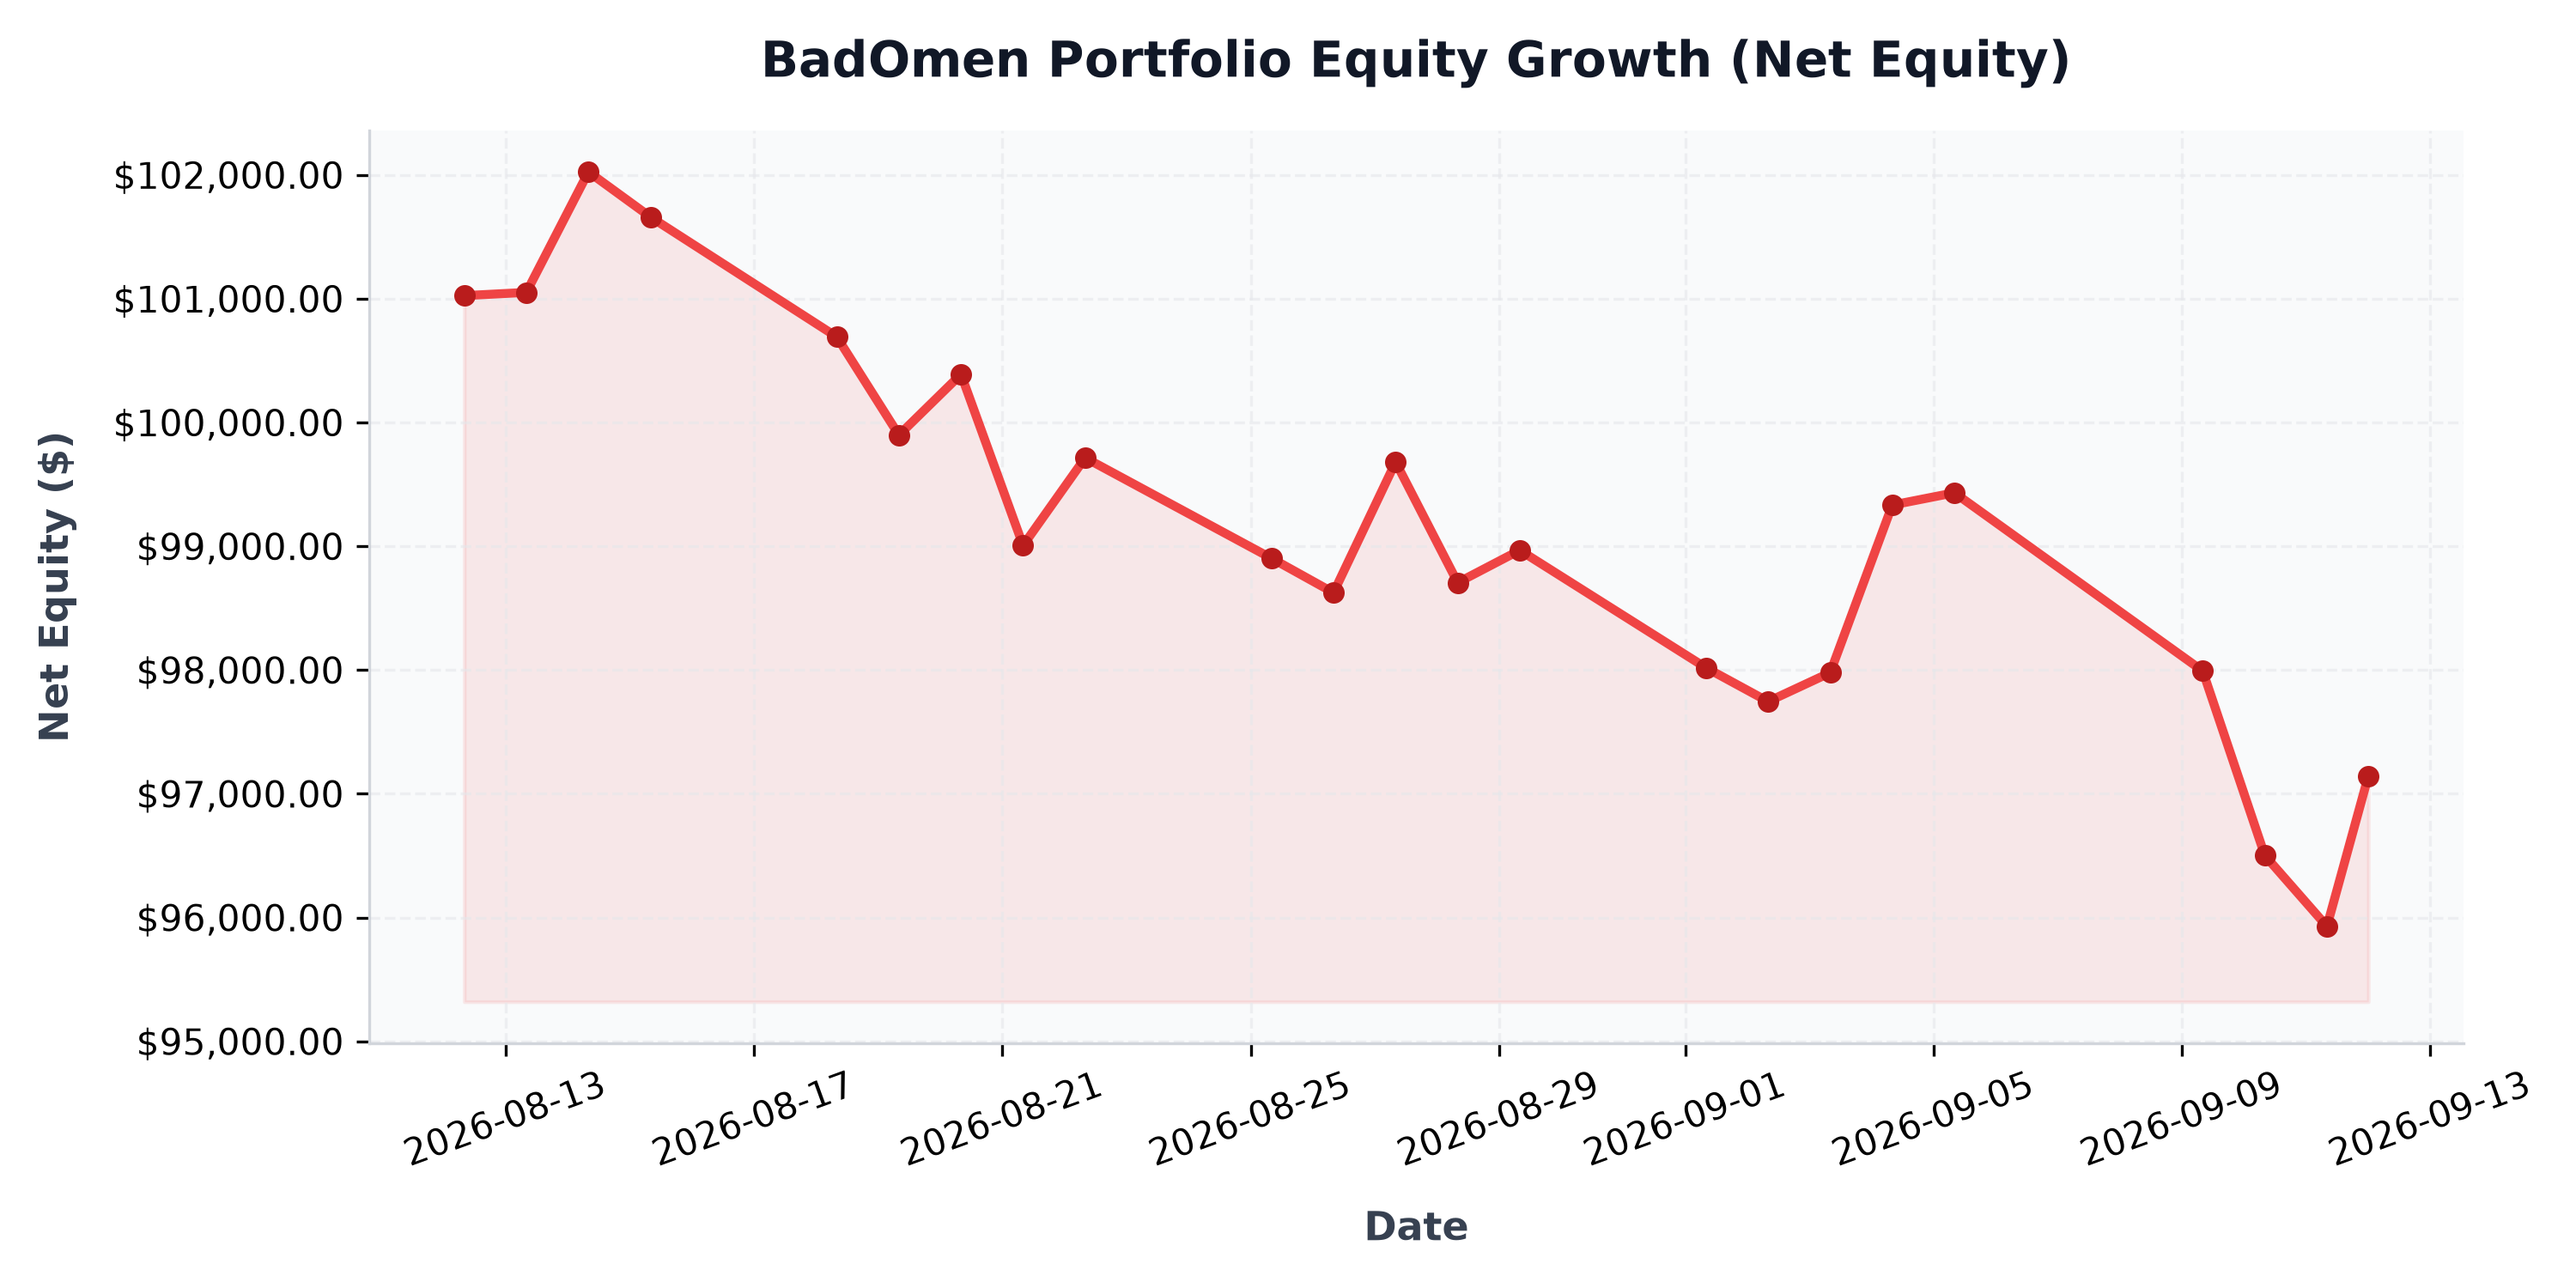
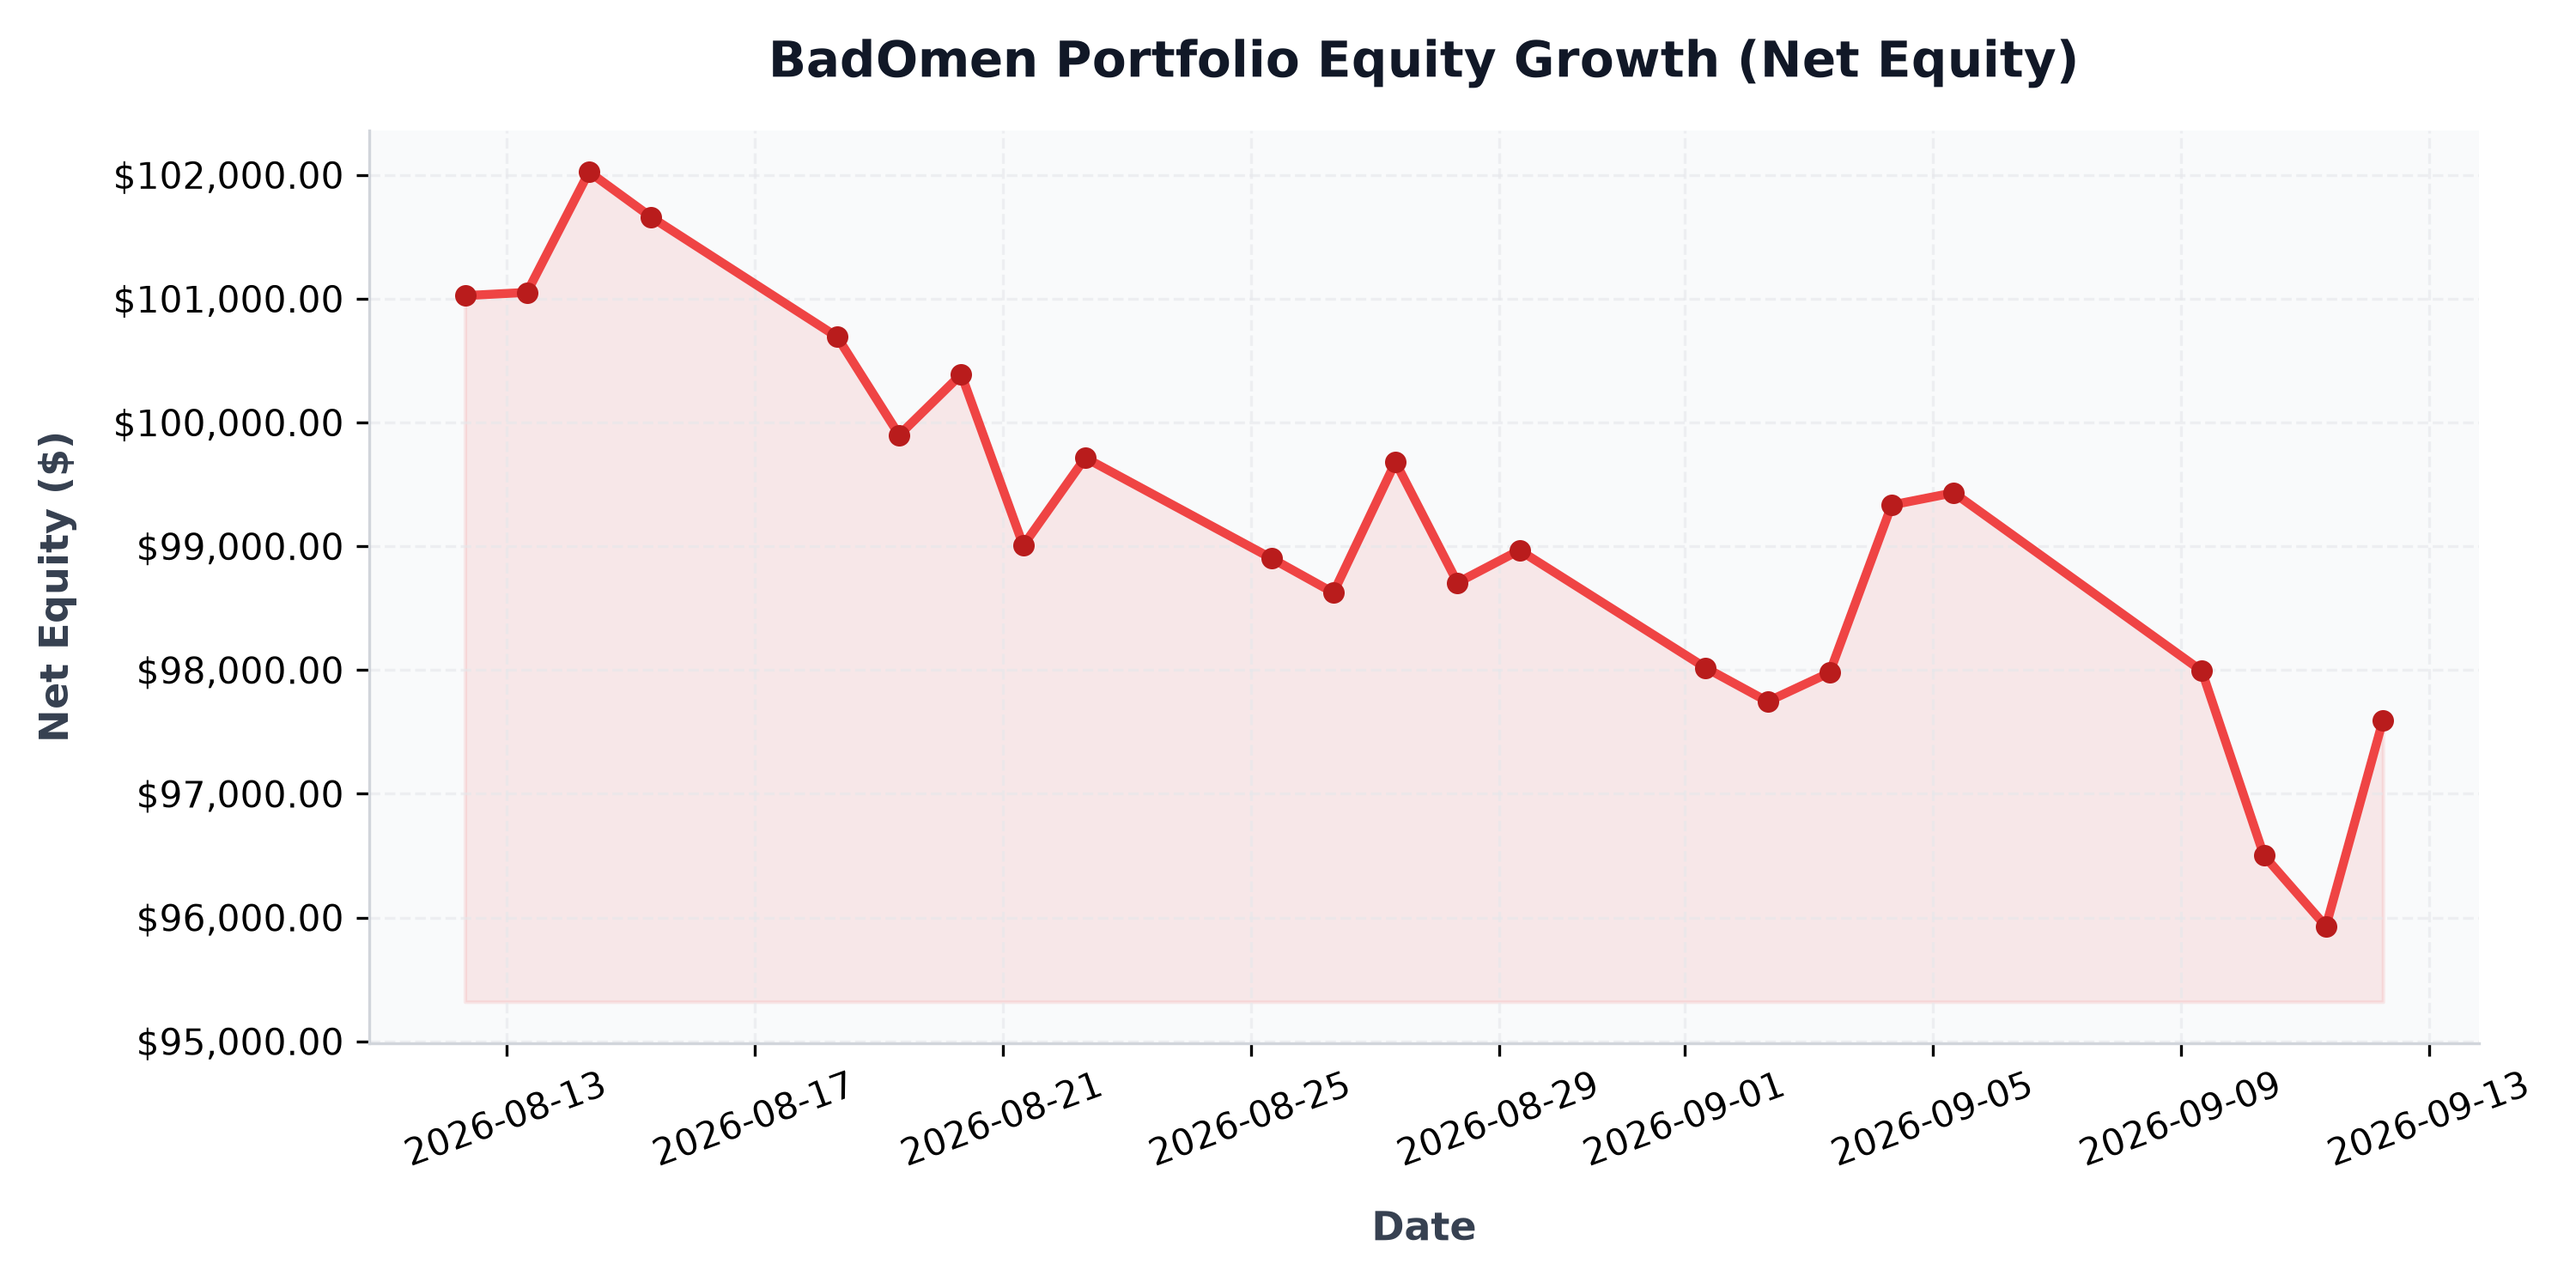
auto: daily portfolio status update - 2026-09-12 06:05:25

diff --git a/src/content/posts/portfolio-performance.md b/src/content/posts/portfolio-performance.md
@@ -1,6 +1,6 @@
 ---
 title: "BadOmen Algorithmic Portfolio Performance & PnL Report"
-pubDatetime: 2026-09-12T00:00:26.176356+08:00
+pubDatetime: 2026-09-12T06:05:24.995168+08:00
 description: "Live performance metrics, active holdings, and historic equity curve for the BadOmen automated paper trading portfolio."
 featured: true
 draft: false
@@ -16,11 +16,11 @@ Welcome to the live performance dashboard for **BadOmen**, our automated algorit
 ## 📊 Portfolio Summary
 | Performance Metric | Value | description |
 | :--- | :--- | :--- |
-| **Net Portfolio Equity** | **$97,144.33** | Total current liquidation value of cash and stock holdings |
-| **Total Unrealized P&L** | 🔴 **$-3,735.07** (-3.70%) | Total return of current open holdings |
+| **Net Portfolio Equity** | **$97,596.16** | Total current liquidation value of cash and stock holdings |
+| **Total Unrealized P&L** | 🔴 **$-3,282.58** (-3.25%) | Total return of current open holdings |
 | **Cash Balance** | $23,482.80 | Idle reserve currency available for limit orders |
-| **Buying Power** | $300,183.50 | Margin-backed buying power for entry allocations |
-| **Report Updated** | `2026-09-12 00:00:26 (SGT)` | Timestamp of daily execution and sync run |
+| **Buying Power** | $301,448.61 | Margin-backed buying power for entry allocations |
+| **Report Updated** | `2026-09-12 06:05:24 (SGT)` | Timestamp of daily execution and sync run |
 
 ## 📈 Net Equity Growth Curve
 The chart below illustrates the historical performance of the account starting from our baseline capital funding of $100,000.00.
@@ -35,36 +35,36 @@ The chart below illustrates the exposure of our currently held active positions 
 ## 💼 Current Position Holdings
 | Ticker | Industry | Shares Owned | Average Entry Cost | Current Price | Unrealized P&L | Return (%) |
 | :--- | :--- | :--- | :--- | :--- | :--- | :--- |
-| **AN** | Auto & Truck Dealerships | 5 | $188.51 | $209.72 | 🟢 +$106.06 | +11.25% |
-| **AVGO** | Semiconductors | 1 | $385.71 | $365.07 | 🔴 $-20.64 | -5.35% |
-| **BIRK** | Footwear & Accessories | 407 | $37.32 | $30.92 | 🔴 $-2,603.87 | -17.14% |
-| **BLBD** | Farm & Heavy Construction Machinery | 231 | $65.52 | $63.14 | 🔴 $-548.85 | -3.63% |
-| **BVN** | Other Precious Metals & Mining | 32 | $31.88 | $34.63 | 🟢 +$88.32 | +8.66% |
-| **CELH** | Beverages - Non-Alcoholic | 33 | $29.71 | $27.45 | 🔴 $-74.67 | -7.61% |
-| **CPRI** | Luxury Goods | 1042 | $14.55 | $13.34 | 🔴 $-1,267.91 | -8.36% |
-| **DUOL** | Software - Application | 14 | $131.04 | $145.60 | 🟢 +$203.85 | +11.11% |
-| **FIS** | Information Technology Services | 23 | $41.79 | $37.95 | 🔴 $-88.32 | -9.19% |
-| **GDDY** | Software - Infrastructure | 6 | $76.21 | $97.22 | 🟢 +$126.06 | +27.57% |
-| **GDS** | Information Technology Services | 30 | $32.77 | $30.93 | 🔴 $-55.20 | -5.62% |
-| **GGAL** | Banks - Regional | 17 | $56.04 | $44.21 | 🔴 $-201.10 | -21.11% |
-| **GOOGL** | Internet Content & Information | 3 | $319.44 | $341.48 | 🟢 +$66.12 | +6.90% |
-| **GPI** | Auto & Truck Dealerships | 3 | $316.15 | $285.44 | 🔴 $-92.13 | -9.71% |
-| **HUBS** | Software - Application | 8 | $221.18 | $225.30 | 🟢 +$32.95 | +1.86% |
-| **ITRI** | Scientific & Technical Instruments | 12 | $81.80 | $94.05 | 🟢 +$146.94 | +14.97% |
-| **KBR** | Engineering & Construction | 27 | $36.23 | $36.16 | 🔴 $-1.84 | -0.19% |
-| **META** | Internet Content & Information | 1 | $568.17 | $652.22 | 🟢 +$84.05 | +14.79% |
-| **NESR** | Oil & Gas Equipment & Services | 34 | $28.74 | $33.98 | 🟢 +$178.16 | +18.23% |
-| **NU** | Banks - Regional | 57 | $11.60 | $14.65 | 🟢 +$174.22 | +26.35% |
-| **ON** | Semiconductors | 10 | $90.45 | $73.91 | 🔴 $-165.45 | -18.29% |
-| **ORCL** | Software - Infrastructure | 5 | $181.95 | $153.16 | 🔴 $-143.95 | -15.82% |
-| **PATH** | Software - Infrastructure | 38 | $10.25 | $13.78 | 🟢 +$133.95 | +34.39% |
-| **PYPL** | Credit Services | 17 | $56.05 | $54.17 | 🔴 $-31.96 | -3.35% |
-| **QCOM** | Semiconductors | 15 | $193.68 | $183.88 | 🔴 $-147.07 | -5.06% |
-| **SMCI** | Computer Hardware | 22 | $29.25 | $39.63 | 🟢 +$228.47 | +35.50% |
-| **SRE** | Utilities - Diversified | 57 | $84.75 | $83.68 | 🔴 $-61.13 | -1.26% |
-| **T** | Telecom Services | 47 | $20.85 | $26.24 | 🟢 +$253.33 | +25.85% |
-| **WEN** | Restaurants | 257 | $8.02 | $7.61 | 🔴 $-107.61 | -5.22% |
-| **ZG** | Internet Content & Information | 31 | $31.35 | $33.10 | 🟢 +$54.15 | +5.57% |
+| **AN** | Auto & Truck Dealerships | 5 | $188.51 | $203.67 | 🟢 +$75.81 | +8.04% |
+| **AVGO** | Semiconductors | 1 | $385.71 | $361.50 | 🔴 $-24.21 | -6.28% |
+| **BIRK** | Footwear & Accessories | 407 | $37.32 | $31.10 | 🔴 $-2,530.61 | -16.66% |
+| **BLBD** | Farm & Heavy Construction Machinery | 231 | $65.52 | $63.07 | 🔴 $-565.02 | -3.73% |
+| **BVN** | Other Precious Metals & Mining | 32 | $31.88 | $34.04 | 🟢 +$69.28 | +6.79% |
+| **CELH** | Beverages - Non-Alcoholic | 33 | $29.71 | $27.20 | 🔴 $-82.92 | -8.46% |
+| **CPRI** | Luxury Goods | 1042 | $14.55 | $13.89 | 🔴 $-689.60 | -4.55% |
+| **DUOL** | Software - Application | 14 | $131.04 | $143.44 | 🟢 +$173.54 | +9.46% |
+| **FIS** | Information Technology Services | 23 | $41.79 | $38.14 | 🔴 $-83.95 | -8.73% |
+| **GDDY** | Software - Infrastructure | 6 | $76.21 | $98.07 | 🟢 +$131.16 | +28.68% |
+| **GDS** | Information Technology Services | 30 | $32.77 | $30.82 | 🔴 $-58.50 | -5.95% |
+| **GGAL** | Banks - Regional | 17 | $56.04 | $43.86 | 🔴 $-207.05 | -21.73% |
+| **GOOGL** | Internet Content & Information | 3 | $319.44 | $338.43 | 🟢 +$56.97 | +5.95% |
+| **GPI** | Auto & Truck Dealerships | 3 | $316.15 | $279.00 | 🔴 $-111.45 | -11.75% |
+| **HUBS** | Software - Application | 8 | $221.18 | $225.33 | 🟢 +$33.19 | +1.88% |
+| **ITRI** | Scientific & Technical Instruments | 12 | $81.80 | $93.55 | 🟢 +$141.00 | +14.36% |
+| **KBR** | Engineering & Construction | 27 | $36.23 | $36.10 | 🔴 $-3.63 | -0.37% |
+| **META** | Internet Content & Information | 1 | $568.17 | $647.31 | 🟢 +$79.14 | +13.93% |
+| **NESR** | Oil & Gas Equipment & Services | 34 | $28.74 | $33.81 | 🟢 +$172.34 | +17.64% |
+| **NU** | Banks - Regional | 57 | $11.60 | $14.65 | 🟢 +$173.92 | +26.31% |
+| **ON** | Semiconductors | 10 | $90.45 | $76.00 | 🔴 $-144.55 | -15.98% |
+| **ORCL** | Software - Infrastructure | 5 | $181.95 | $149.05 | 🔴 $-164.50 | -18.08% |
+| **PATH** | Software - Infrastructure | 38 | $10.25 | $13.75 | 🟢 +$133.00 | +34.15% |
+| **PYPL** | Credit Services | 17 | $56.05 | $53.77 | 🔴 $-38.73 | -4.06% |
+| **QCOM** | Semiconductors | 15 | $193.68 | $182.09 | 🔴 $-173.85 | -5.98% |
+| **SMCI** | Computer Hardware | 22 | $29.25 | $39.97 | 🟢 +$235.76 | +36.64% |
+| **SRE** | Utilities - Diversified | 57 | $84.75 | $83.34 | 🔴 $-80.51 | -1.67% |
+| **T** | Telecom Services | 47 | $20.85 | $26.05 | 🟢 +$244.40 | +24.94% |
+| **WEN** | Restaurants | 257 | $8.02 | $7.63 | 🔴 $-101.19 | -4.91% |
+| **ZG** | Internet Content & Information | 31 | $31.35 | $33.23 | 🟢 +$58.18 | +5.99% |
 
 ## 🔴 Recent Realized Trades
 | Ticker | Shares Sold | Entry Price | Exit Price | Strategy Trigger | Realized Return | Exit Date |
